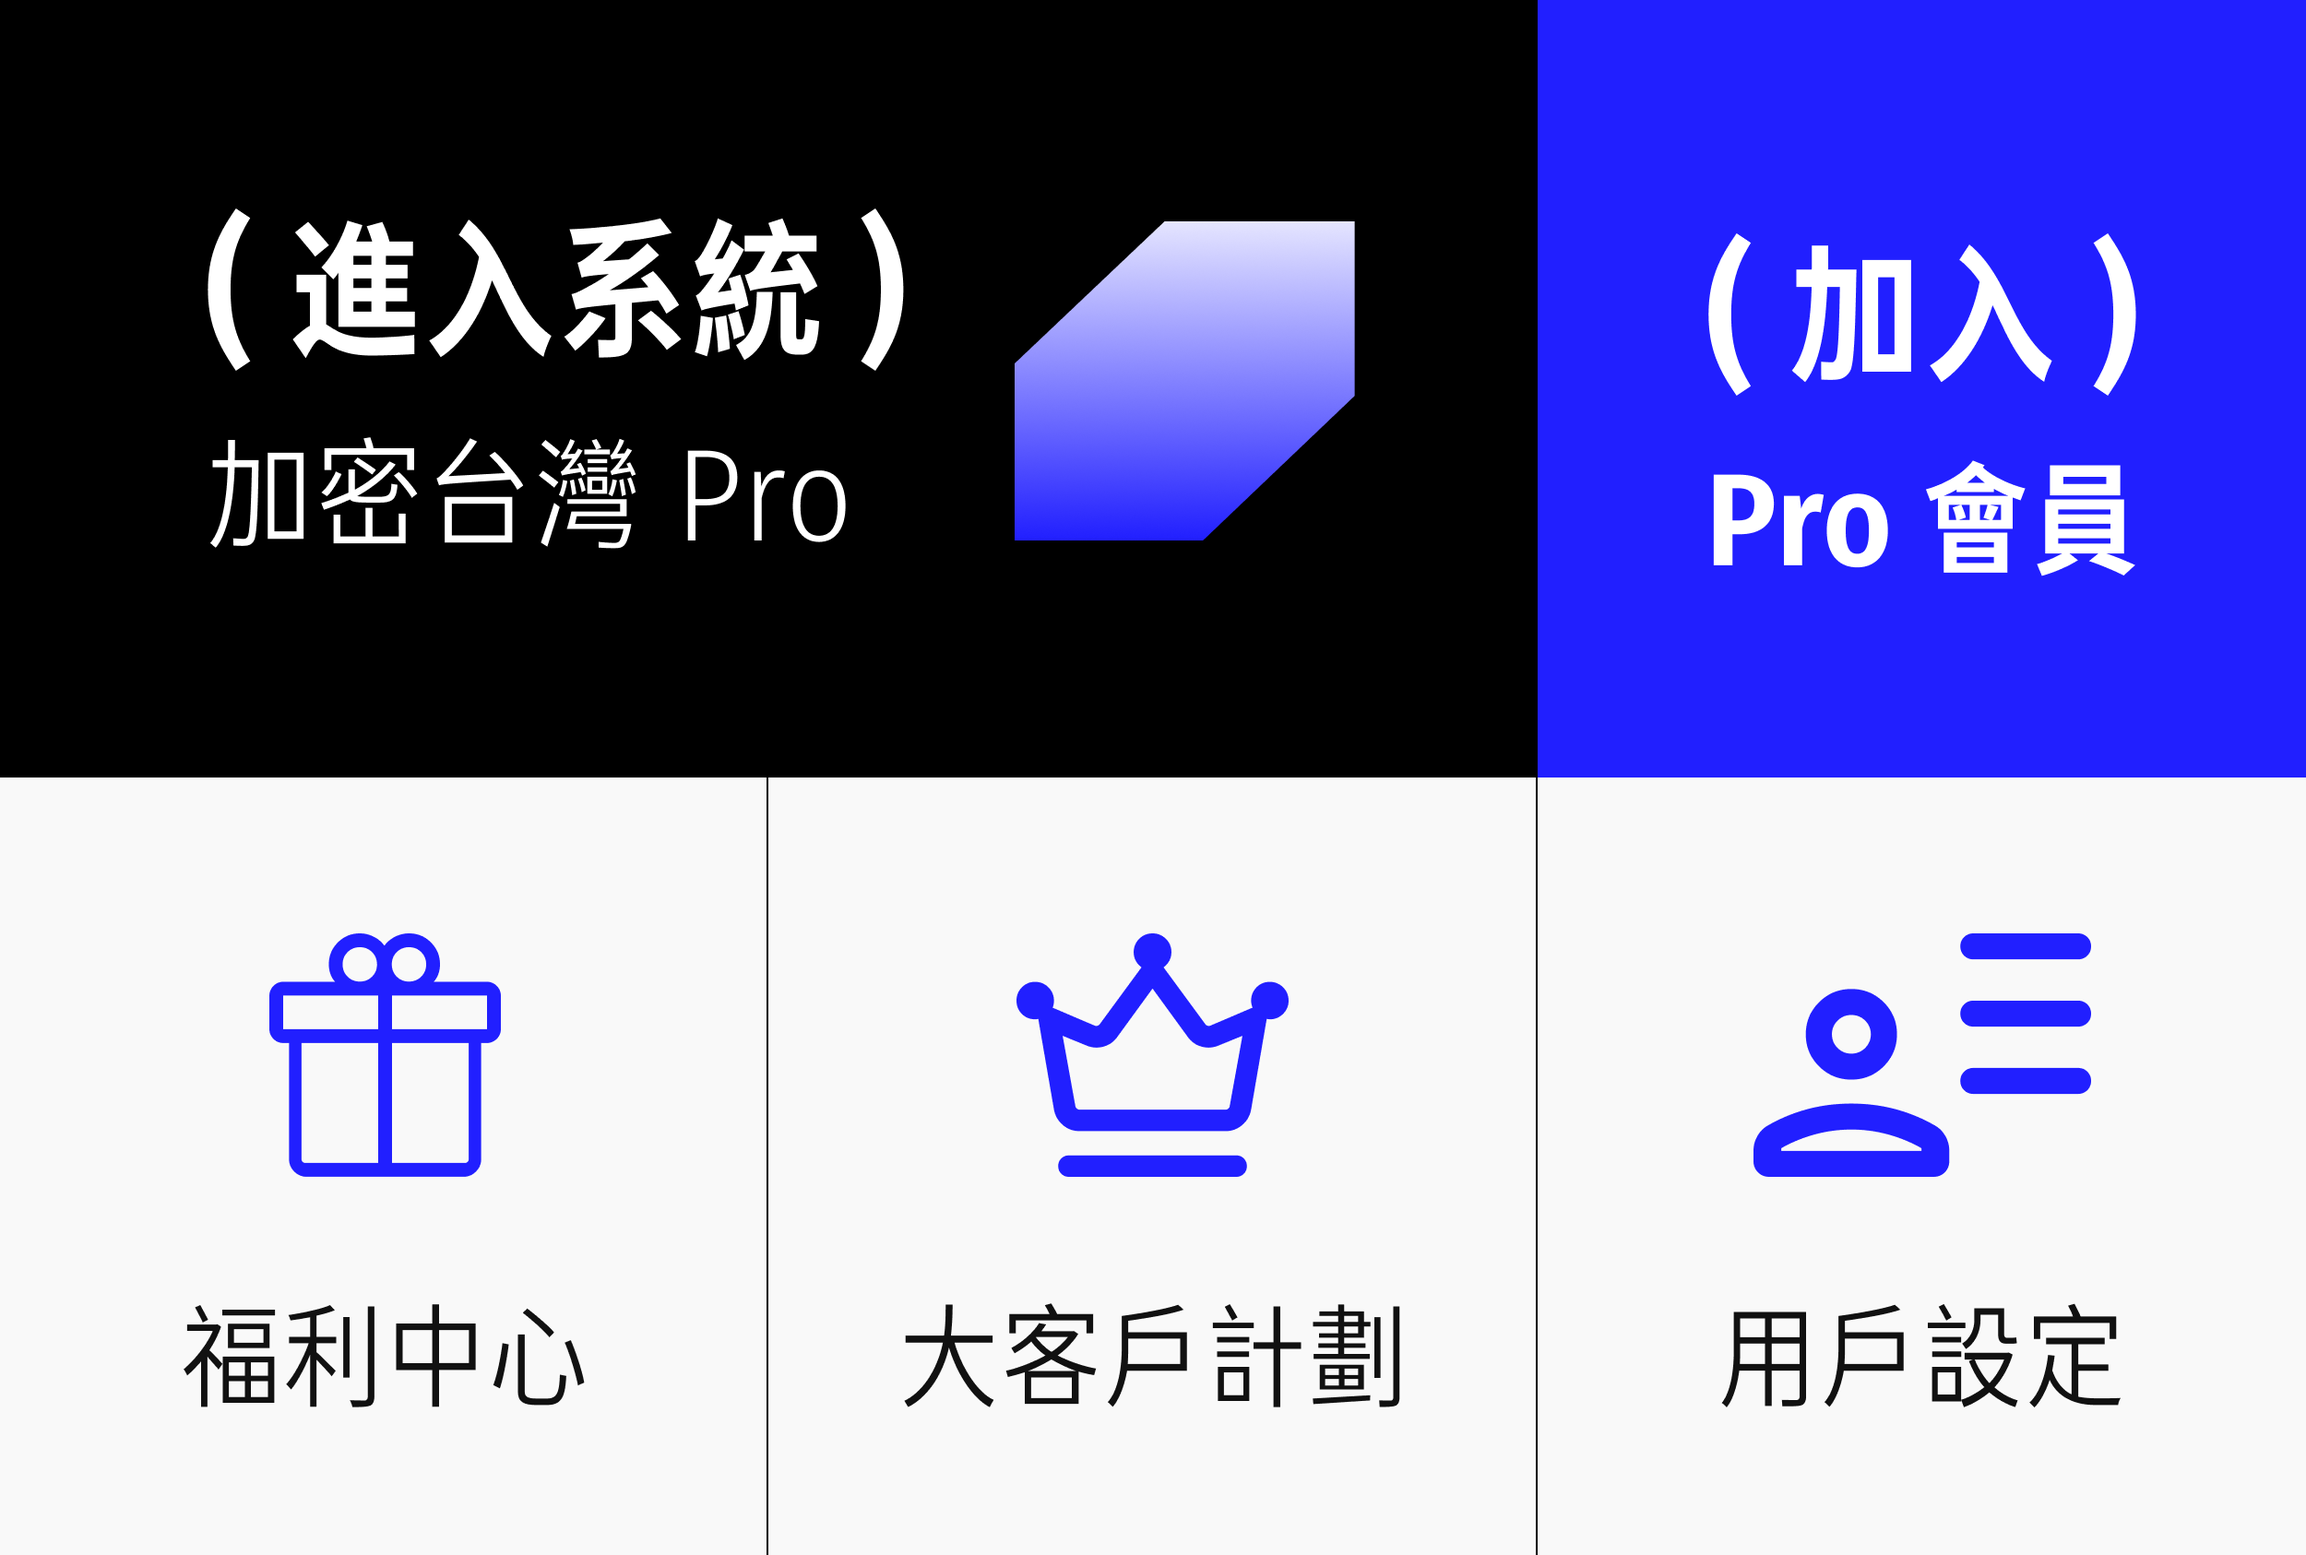
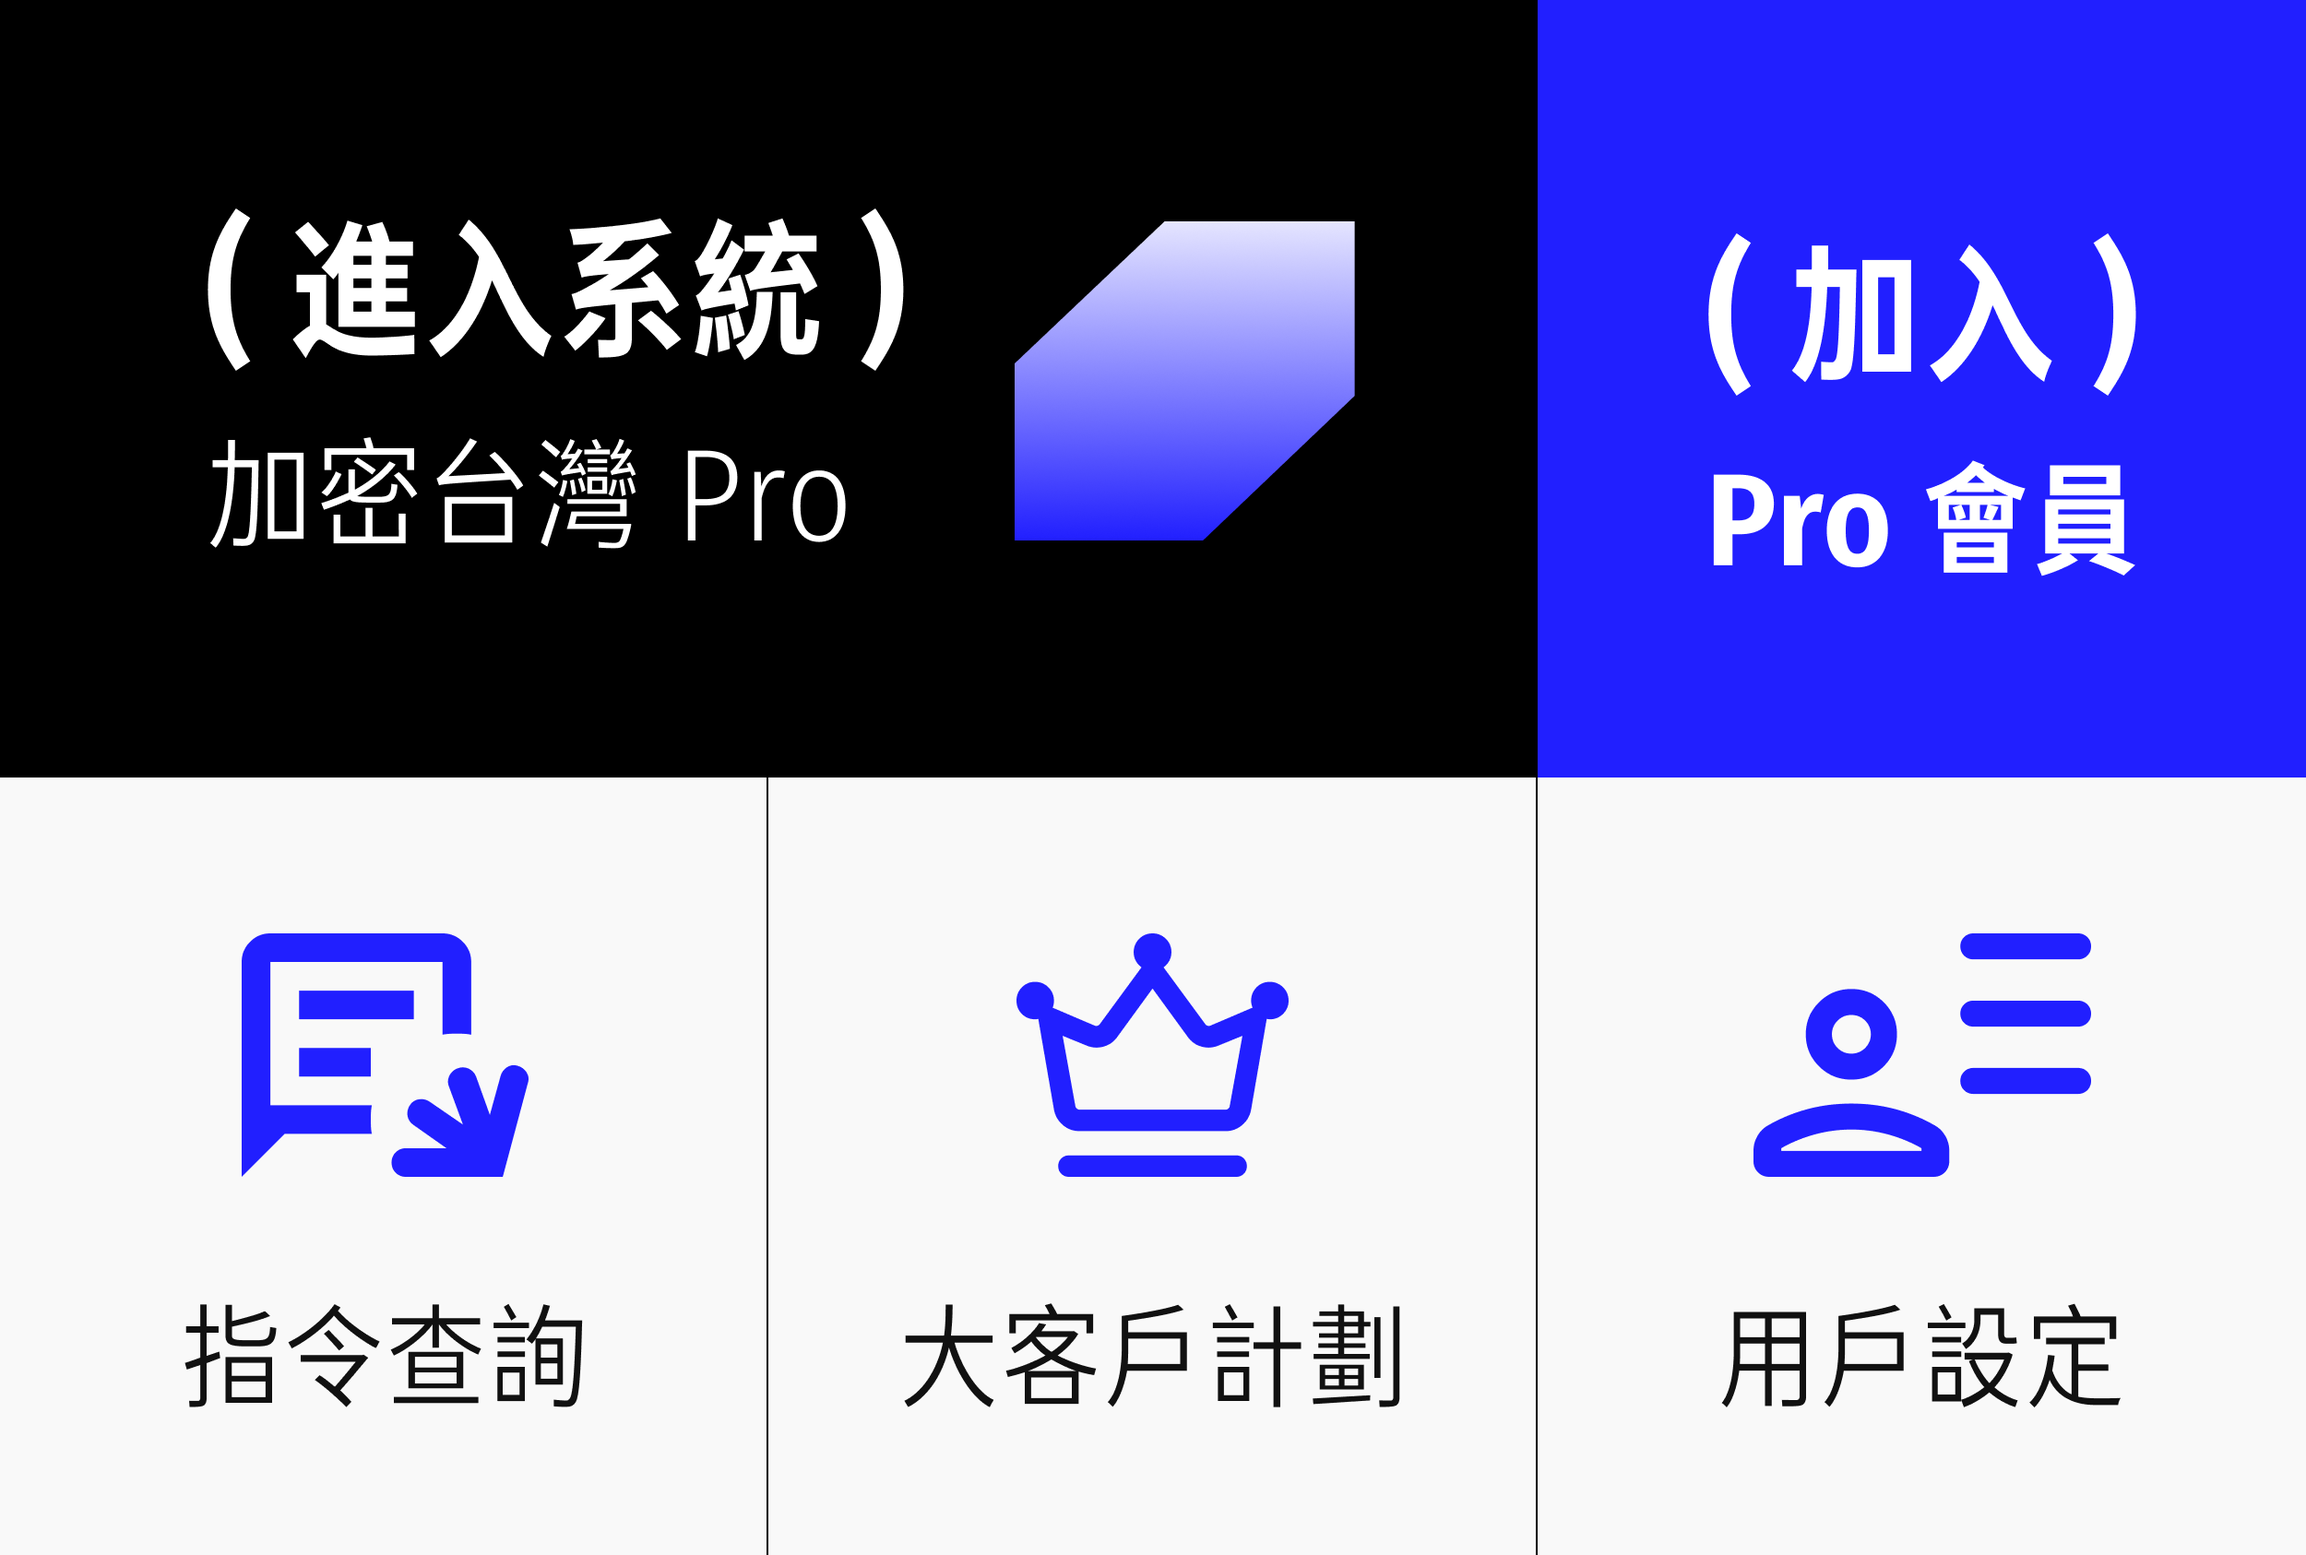
feat: 支援排名、貨幣轉換及加密貨幣查詢指令使用 `@` 和 `$` 前綴

Changed region(s): [[0.0936, 0.586, 0.2496, 0.7711], [0.0624, 0.8327, 0.2496, 0.9253]]

diff --git a/src/app/api/webhook/line/route.ts b/src/app/api/webhook/line/route.ts
@@ -198,6 +198,143 @@ const JOIN_MEMBER_FLEX_MESSAGE = {
     }
 }
 
+// 指令說明 Flex Message
+const HELP_COMMAND_FLEX_MESSAGE = {
+    type: "flex",
+    altText: "指令說明",
+    contents: {
+        type: "bubble",
+        size: "kilo",
+        body: {
+            type: "box",
+            layout: "vertical",
+            contents: [
+                {
+                    type: "box",
+                    layout: "horizontal",
+                    contents: [
+                        {
+                            type: "text",
+                            text: "📖 指令說明",
+                            weight: "bold",
+                            size: "lg",
+                            color: "#1F1AD9",
+                            flex: 1
+                        },
+                        {
+                            type: "text",
+                            text: "加密台灣 Pro",
+                            size: "xxs",
+                            color: "#888888",
+                            align: "end",
+                            gravity: "center"
+                        }
+                    ]
+                },
+                {
+                    type: "separator",
+                    margin: "lg",
+                    color: "#f0f0f0"
+                },
+                {
+                    type: "box",
+                    layout: "vertical",
+                    margin: "lg",
+                    spacing: "md",
+                    contents: [
+                        {
+                            type: "text",
+                            text: "💰 幣價查詢",
+                            weight: "bold",
+                            size: "sm",
+                            color: "#1F1AD9"
+                        },
+                        {
+                            type: "text",
+                            text: "#BTC  @ETH  $SOL",
+                            size: "sm",
+                            color: "#333333"
+                        },
+                        {
+                            type: "separator",
+                            margin: "md",
+                            color: "#f0f0f0"
+                        },
+                        {
+                            type: "text",
+                            text: "📊 市場排行榜",
+                            weight: "bold",
+                            size: "sm",
+                            color: "#1F1AD9"
+                        },
+                        {
+                            type: "text",
+                            text: "#HOT  @TOP  $RANK",
+                            size: "sm",
+                            color: "#333333"
+                        },
+                        {
+                            type: "separator",
+                            margin: "md",
+                            color: "#f0f0f0"
+                        },
+                        {
+                            type: "text",
+                            text: "💱 匯率查詢 / 換算",
+                            weight: "bold",
+                            size: "sm",
+                            color: "#1F1AD9"
+                        },
+                        {
+                            type: "text",
+                            text: "#TWD  @TWD 1000  $USDT 50",
+                            size: "sm",
+                            color: "#333333"
+                        }
+                    ]
+                },
+                {
+                    type: "text",
+                    text: "支援前綴：# @ $",
+                    size: "xxs",
+                    color: "#888888",
+                    margin: "lg",
+                    align: "center"
+                }
+            ]
+        },
+        footer: {
+            type: "box",
+            layout: "vertical",
+            spacing: "sm",
+            contents: [
+                {
+                    type: "button",
+                    style: "primary",
+                    height: "sm",
+                    action: {
+                        type: "uri",
+                        label: "註冊 OKX 交易所",
+                        uri: "https://www.okx.com/join/CRYPTOTW"
+                    },
+                    color: "#1F1AD9"
+                },
+                {
+                    type: "button",
+                    style: "primary",
+                    height: "sm",
+                    action: {
+                        type: "message",
+                        label: "加入 Pro 會員",
+                        text: "加入會員"
+                    },
+                    color: "#000000"
+                }
+            ]
+        }
+    }
+}
+
 // Updating the object to use PRIMARY for both but different colors to ensure visual requirements
 
 
@@ -881,8 +1018,8 @@ export async function POST(req: NextRequest) {
                     continue
                 }
 
-                // B. Ranking Command (#HOT, #TOP, #RANK)
-                if (['#HOT', '#TOP', '#RANK'].includes(text)) {
+                // B. Ranking Command (#HOT, @HOT, $HOT, etc.)
+                if (/^[#@$](HOT|TOP|RANK)$/.test(text)) {
                     const rankingData = await fetchMarketRanking()
                     if (rankingData) {
                         const flexMsg = createRankingCard(rankingData)
@@ -899,9 +1036,14 @@ export async function POST(req: NextRequest) {
                     continue
                 }
 
-                // C. Currency Converter & Rates (#TWD, #USD, #USDT)
-                // Patterns: #TWD, #TWD 1000, #USD, #USD 100, #USDT, #USDT 100
-                const currencyMatch = text.match(/^#(TWD|USD|USDT)(\s+(\d+(\.\d+)?))?$/)
+                // B3. Help Command (指令)
+                if (originalText === '指令' || originalText === '幫助' || originalText === 'help') {
+                    await replyMessage(replyToken, [HELP_COMMAND_FLEX_MESSAGE])
+                    continue
+                }
+
+                // C. Currency Converter & Rates (#TWD, @TWD, $TWD, etc.)
+                const currencyMatch = text.match(/^[#@$](TWD|USD|USDT)(\s+(\d+(\.\d+)?))?$/)
 
                 if (currencyMatch) {
                     const type = currencyMatch[1] // TWD, USD, USDT
@@ -943,8 +1085,8 @@ export async function POST(req: NextRequest) {
                     continue // Skip other checks
                 }
 
-                // D. Crypto Price Check (#BTC)
-                const cryptoMatch = text.match(/^#([A-Z0-9]{2,10})$/)
+                // D. Crypto Price Check (#BTC, @BTC, $BTC)
+                const cryptoMatch = text.match(/^[#@$]([A-Z0-9]{2,10})$/)
 
                 if (cryptoMatch) {
                     const symbol = cryptoMatch[1]

diff --git a/src/app/api/admin/rich-menu/route.ts b/src/app/api/admin/rich-menu/route.ts
@@ -29,12 +29,12 @@ const getRichMenuObject = (liffId: string) => ({
                 uri: `https://liff.line.me/${liffId}?path=/join`
             }
         },
-        // B: Bottom Left (0,843) - 833x843 - Action: Open Events
+        // B: Bottom Left (0,843) - 833x843 - Action: Send "指令" message
         {
             bounds: { x: 0, y: 843, width: 833, height: 843 },
             action: {
-                type: "uri",
-                uri: `https://liff.line.me/${liffId}?path=/events`
+                type: "message",
+                text: "指令"
             }
         },
         // C: Bottom Center (833,843) - 834x843 - Action: Open Prediction
